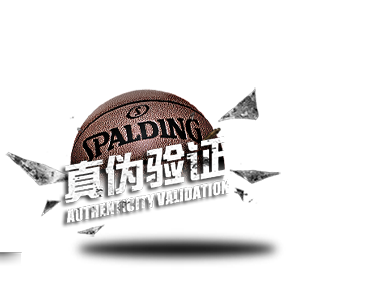
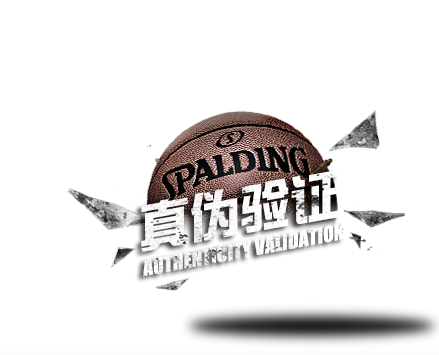
首页修改

Changed region(s): [[0.0, 0.299, 1.0, 0.9867], [0.0, 0.8372, 0.0595, 0.8671]]

diff --git a/skin/frontend/default/spalding/css/auth.css b/skin/frontend/default/spalding/css/auth.css
@@ -49,9 +49,11 @@ element.style {
 .new_address td input {
     background: none repeat scroll 0 0 #FFFFFF;
     border: 1px solid #3E3E3E;
+    border-radius: 5px;
     font-size: 14px;
     height: 30px;
-    margin: 0;
+    line-height: 30px;
+    margin: 10px 0;
     outline: medium none;
     padding: 5px 15px;
     width: 350px;

diff --git a/skin/frontend/default/spalding/css/spalding.css b/skin/frontend/default/spalding/css/spalding.css
@@ -358,6 +358,11 @@ ul.scarch_select_option li:hover{
 .spalding_plateWrap .plateBox_tf{
 	margin-top:-60px;
 	margin-left: -30px;
+	position:absolute; 
+	right:-75px; 
+	top:-10px; 
+	width:480px; 
+	height:390px;
 }
 .spalding_plateWrap .plateBox_tf img{
 	vertical-align: top;
